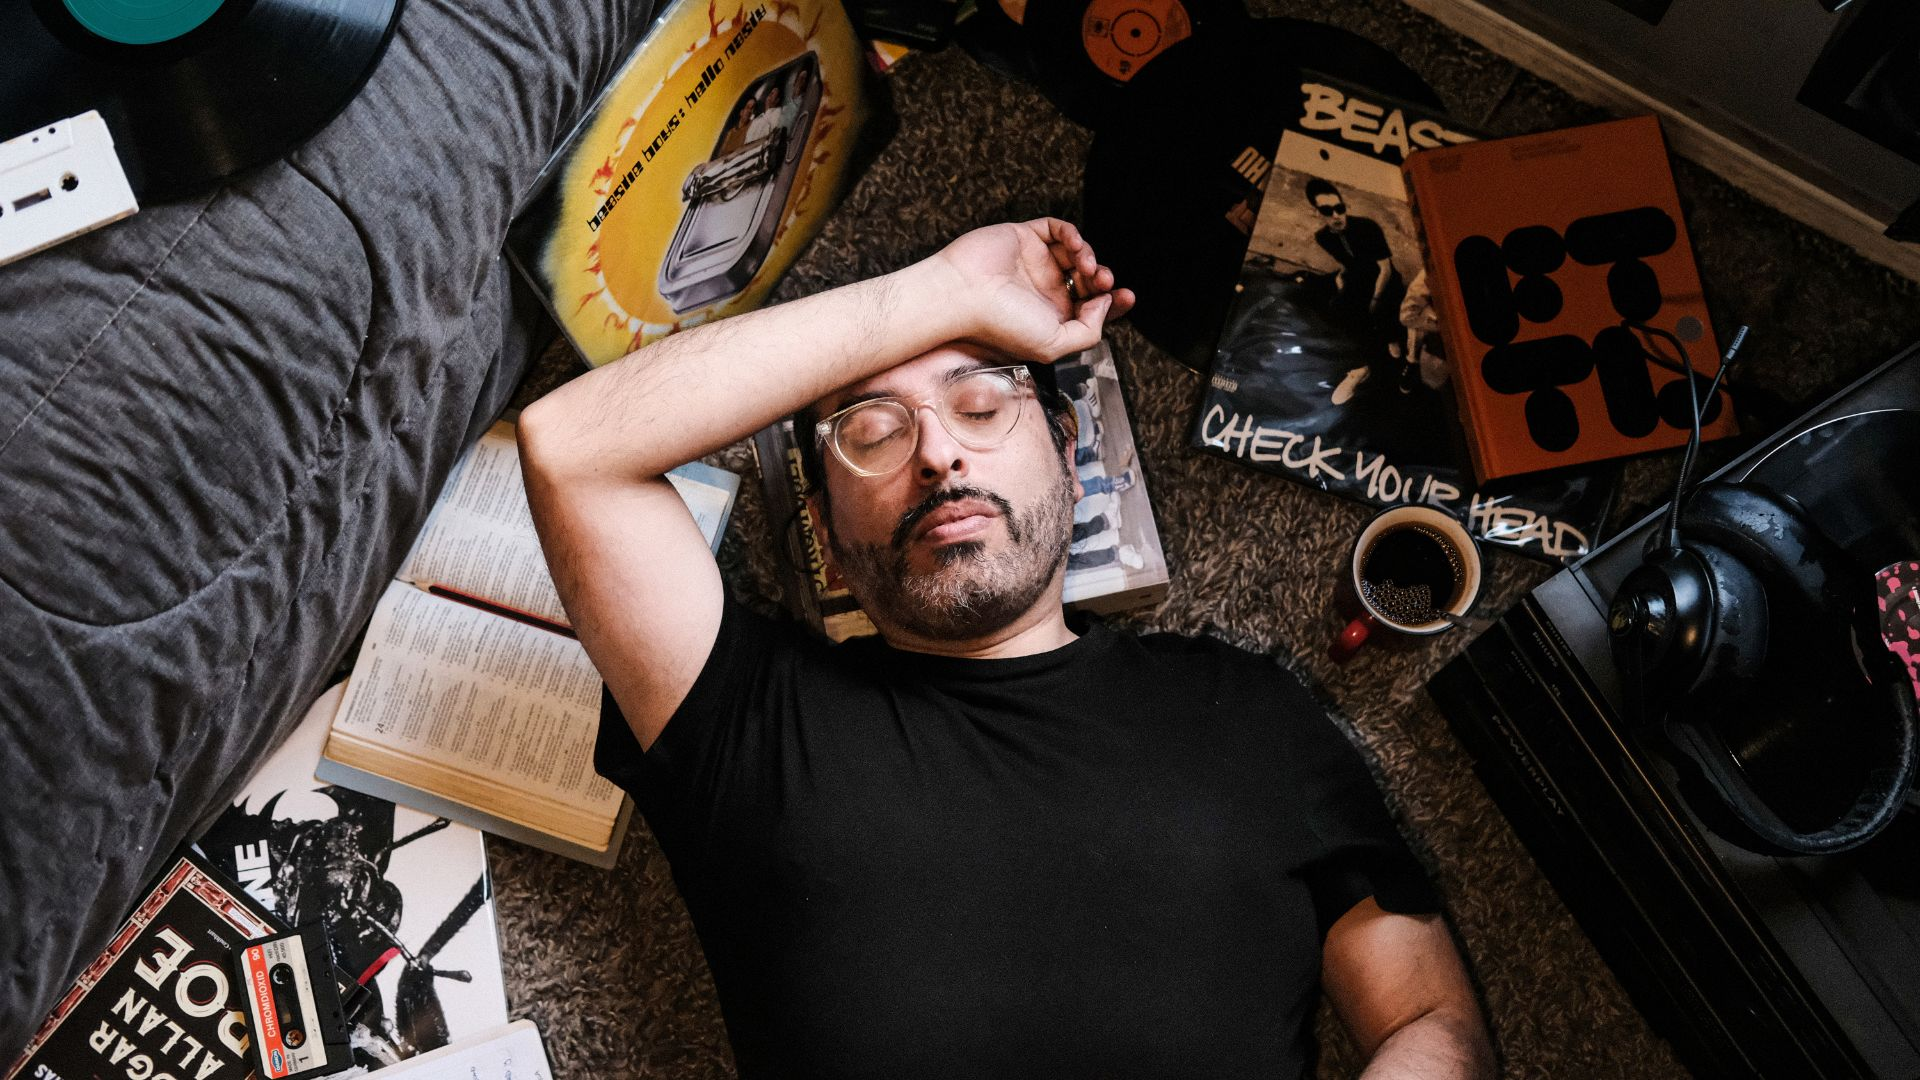
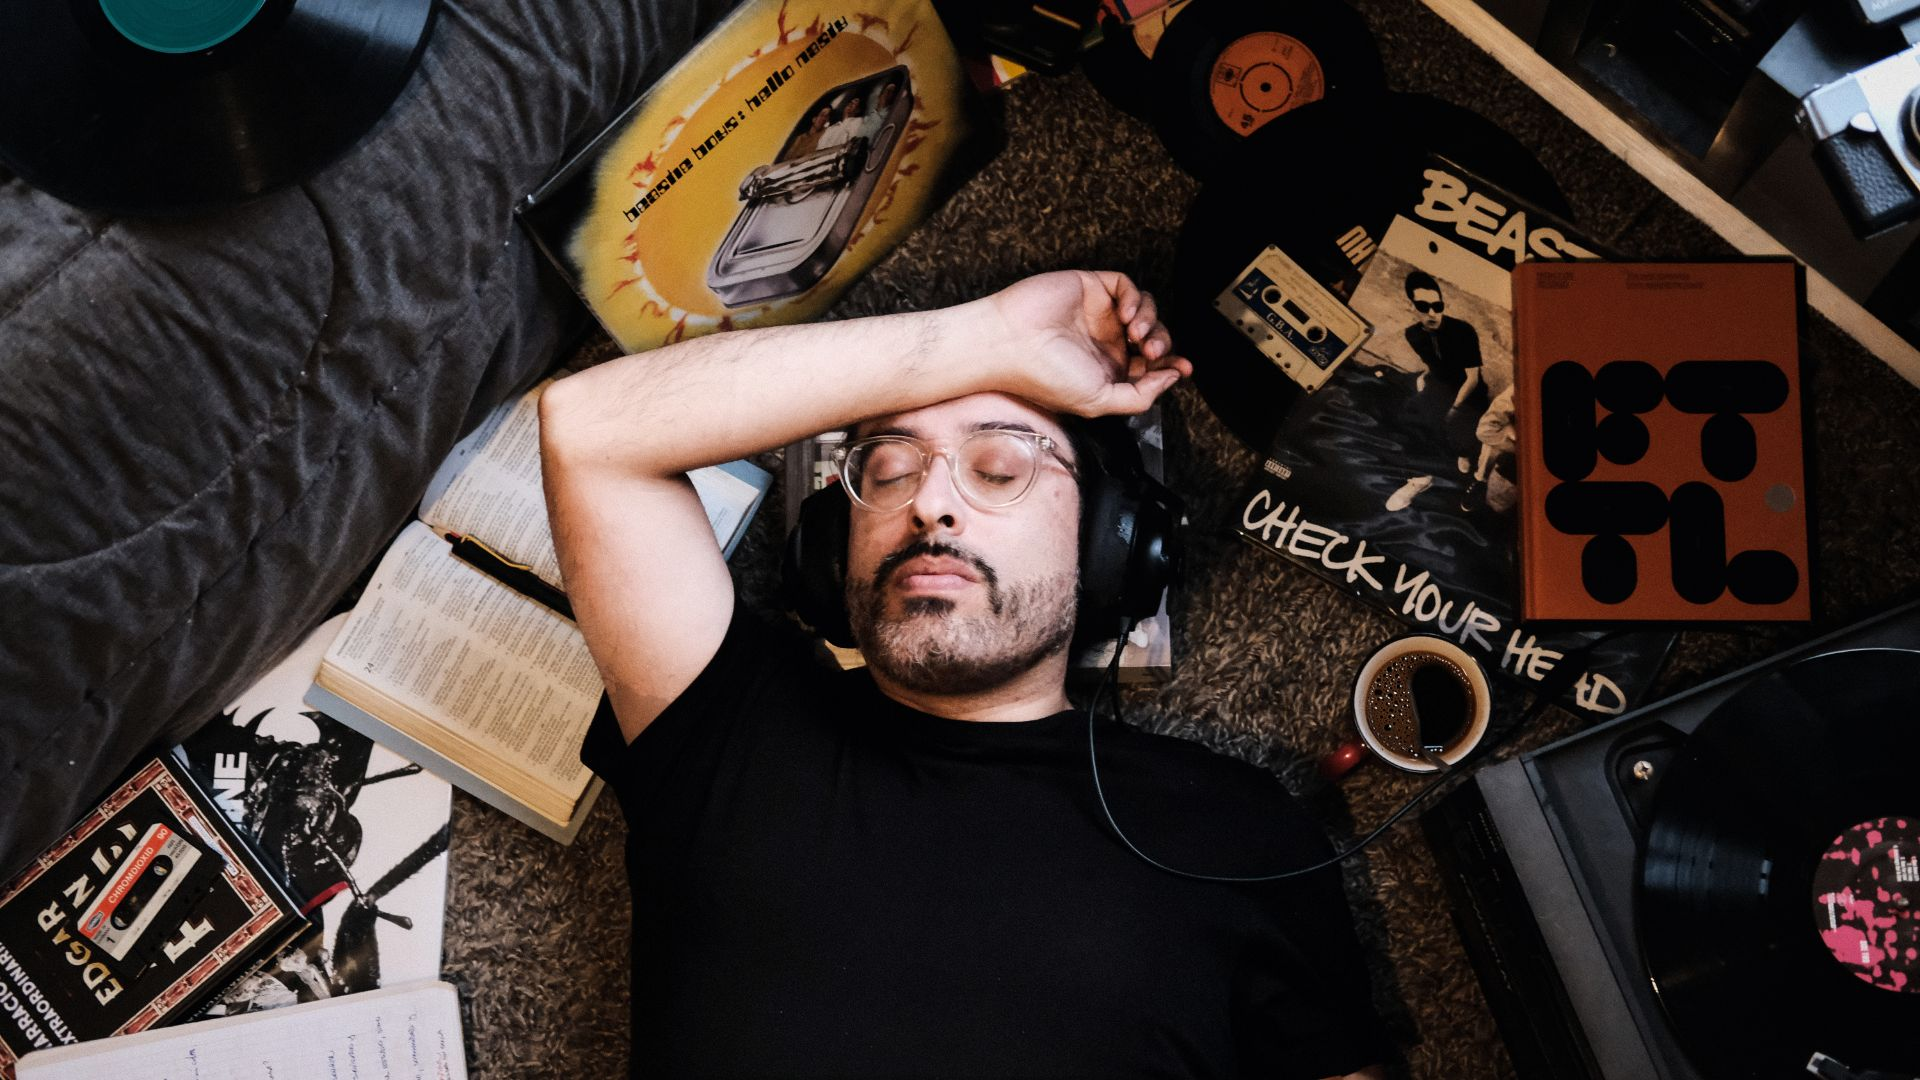
img mods

diff --git a/index.html b/index.html
@@ -74,7 +74,7 @@
       </section>
 
       <section class="section story">
-        <h2>La Historia</h2>
+        <!-- <h2>La Historia</h2> -->
         <p>
           Rapsoda es una carta abierta a Dios, a la música y a mi historia. Un
           viaje desde Santiago hasta La Araucanía, donde una mezcla de hip-hop
@@ -86,7 +86,7 @@
       </section>
 
       <section class="section tracklist">
-        <h2>Tracklist</h2>
+        <!-- <h2>Tracklist</h2> -->
         <div class="tracklist-grid">
           <div class="track-item">
             <span class="track-number">01</span>

diff --git a/styles.css b/styles.css
@@ -202,7 +202,7 @@ nav a.active {
 
 /* Historia */
 .story {
-    background: url(imagenes/pattern.png), #2D2D2D;
+    background: url(imagenes/pattern.png), #1a1a1a;
     background-repeat: repeat;
     background-size: auto;
 }
@@ -353,6 +353,13 @@ nav a.active {
     margin-left: auto;
     margin-right: auto;
     text-align: justify;
+}
+
+.historia-content .firma {
+    text-align: center;
+}
+.firma img {
+    width: 9rem;
 }
 
 .historia-content p b a {

diff --git a/historia.html b/historia.html
@@ -140,6 +140,7 @@
           será enriquecedora. Lo ha sido para mí y confío en que lo será para
           ti.
         </p>
+        <p class="firma"><img src="imagenes/berakalogo.svg" alt=""></p>
 
         <div class="cta">
           <p class="cta-text">Descubre Rapsoda completo</p>
